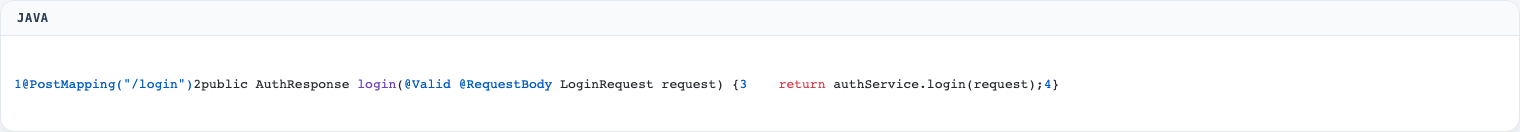
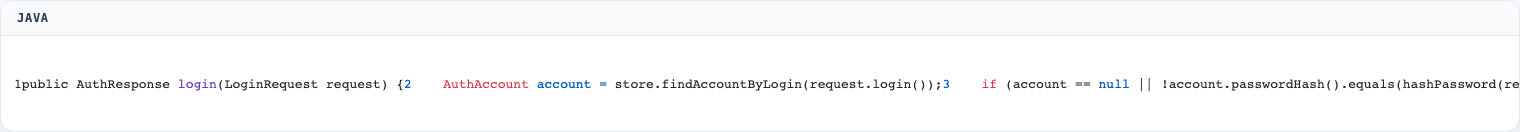
docs(fragments): update auth fragment with auth service login

Changed region(s): [[0.0, 0.6061, 1.0, 0.697]]

diff --git a/fragments/Fragments.md b/fragments/Fragments.md
@@ -3,9 +3,31 @@
 ### [Скрин кода](./img_1.png)
 
 ```java
-@PostMapping("/login")
-public AuthResponse login(@Valid @RequestBody LoginRequest request) {
-    return authService.login(request);
+public AuthResponse login(LoginRequest request) {
+    AuthAccount account = store.findAccountByLogin(request.login());
+    if (account == null || !account.passwordHash().equals(hashPassword(request.password()))) {
+        throw new ResponseStatusException(UNAUTHORIZED, "Неверный логин или пароль");
+    }
+
+    String token = UUID.randomUUID().toString().replace("-", "");
+    store.saveSession(new AuthSession(
+            token,
+            account.role(),
+            account.organizationId(),
+            account.login(),
+            account.fullName()));
+
+    OrganizationMember member = store.findMemberByLogin(account.login());
+    AuthUserResponse user = new AuthUserResponse(
+            member == null ? null : member.getId(),
+            account.login(),
+            account.fullName(),
+            null,
+            account.position(),
+            account.role(),
+            account.organizationId(),
+            null);
+    return new AuthResponse(token, user);
 }
 ```
 
